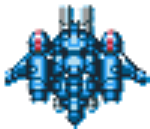
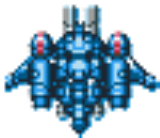
update

diff --git a/FINAL_AlienInvasion_CT.py b/FINAL_AlienInvasion_CT.py
@@ -58,15 +58,15 @@ class AlienInvasion:
             self._update_screen() 
 
 
-    ##ADD CT - Display the score and number of lives left on screen
+    ##ADD CT - Display the score and number of lives left on screen, using a different font
     def display_score(self, x, y):
         self.font = pygame.font.Font('images/ATROX.TTF', 40)
-        score = self.font.render('score:' + str(self.stats.score), True, (255,255,255))
+        score = self.font.render('Score:' + str(self.stats.score), True, (255,255,255))
         self.screen.blit(score, (x,y))
 
     def display_lives(self, x, y):
         self.font = pygame.font.Font('images/ATROX.TTF', 40)
-        lives = self.font.render('ships left:' + str(self.stats.ships_left), True, (255,255,255))
+        lives = self.font.render('Ships Left:' + str(self.stats.ships_left), True, (255,255,255))
         self.screen.blit(lives, (x,y))
     ##ADD CT - Display the score and number of lives left on screen, using a different font
 
@@ -214,7 +214,16 @@ class AlienInvasion:
             sleep (0.5) 
         else: 
             self.stats.game_active = False 
-            
+            self._game_over()
+
+
+    ##ADD CT - added a dispaly stating game over, player can only quit the game
+    def _game_over(self):
+        # Display Game Over message and replay button inside the rectangle
+        self._draw_text("Game Over", 72, (self.settings.screen_width // 2, self.settings.screen_height // 2 - 50), (255, 9, 0))
+        pygame.display.flip()
+
+    ##ADD CT - added a game over screen, player can only quit the game
  
     def _check_aliens_bottom(self): 
         #  Check if any aliens have reached the bottom of the screen 

diff --git a/alien.py b/alien.py
@@ -10,7 +10,8 @@ class Alien(Sprite):
         self.screen = ai_game.screen 
         self.settings = ai_game.settings 
  
-        # Load the alien image and set its rect attribute. 
+        # Load the alien image and set its rect attribute.
+        ##ADD CT - found new alien sprite and readjsuted size myself. here is the site I found it on: https://opengameart.org/content/alien-sprite-sheet
         self.image = pygame.image.load('images/aliensprite_orange.png') 
         self.rect = self.image.get_rect() 
  

diff --git a/ship.py b/ship.py
@@ -11,6 +11,7 @@ class Ship:
         self.screen_rect = ai_game.screen.get_rect() 
  
     # Load the ship image and gets its rectangle 
+    ##ADD CT - found new ship sprite and readjusted size myself. here is the site I found it on: https://opengameart.org/content/modular-ships
         self.image = pygame.image.load('images/modular_ships_blue.png') 
         self.rect = self.image.get_rect() 
  

diff --git a/settings.py b/settings.py
@@ -22,7 +22,7 @@ class Settings:
         self.bullets_allowed = 3 
  
         # alien settings 
-        self.alien_speed = 5.0 
+        self.alien_speed = 5
         self.fleet_drop_speed = 10 
         # fleet direction of 1 represents right; -1 represents left. 
         self.fleet_direction = 1 
